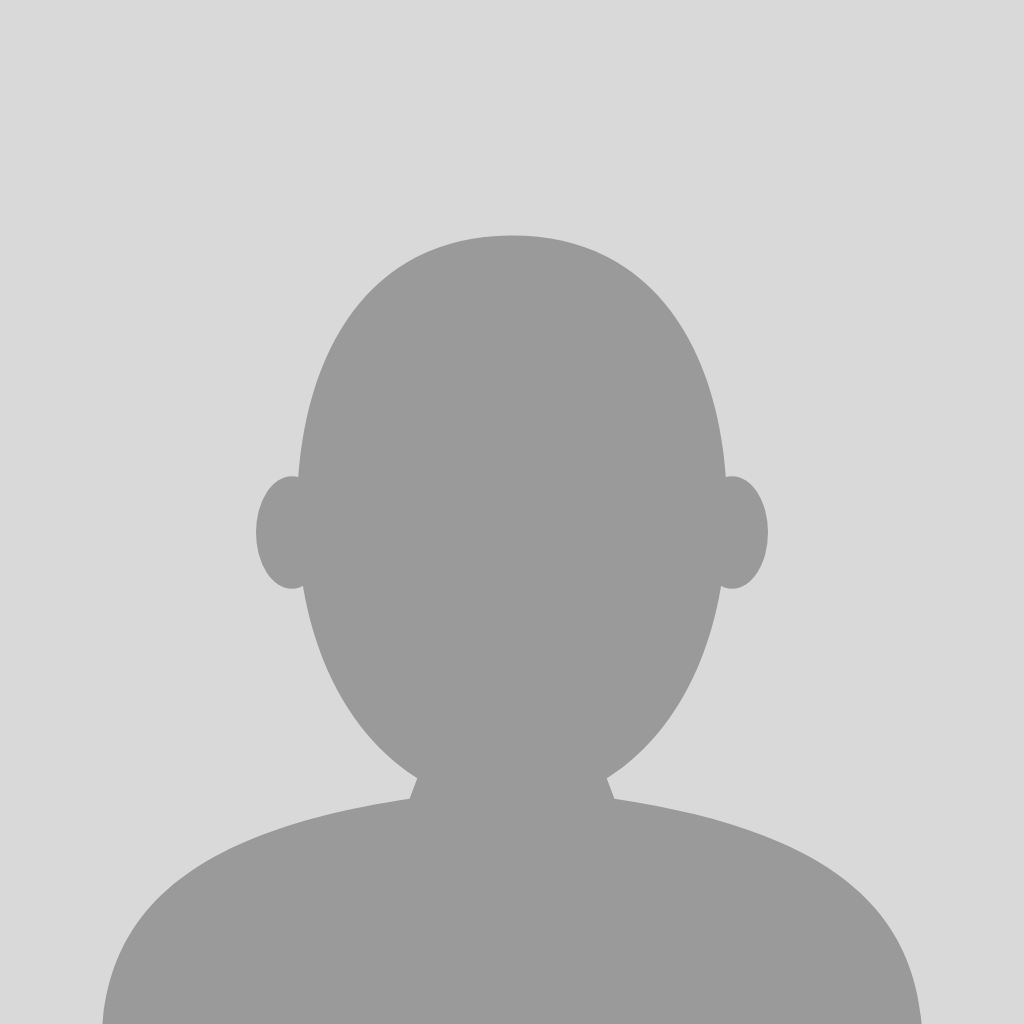
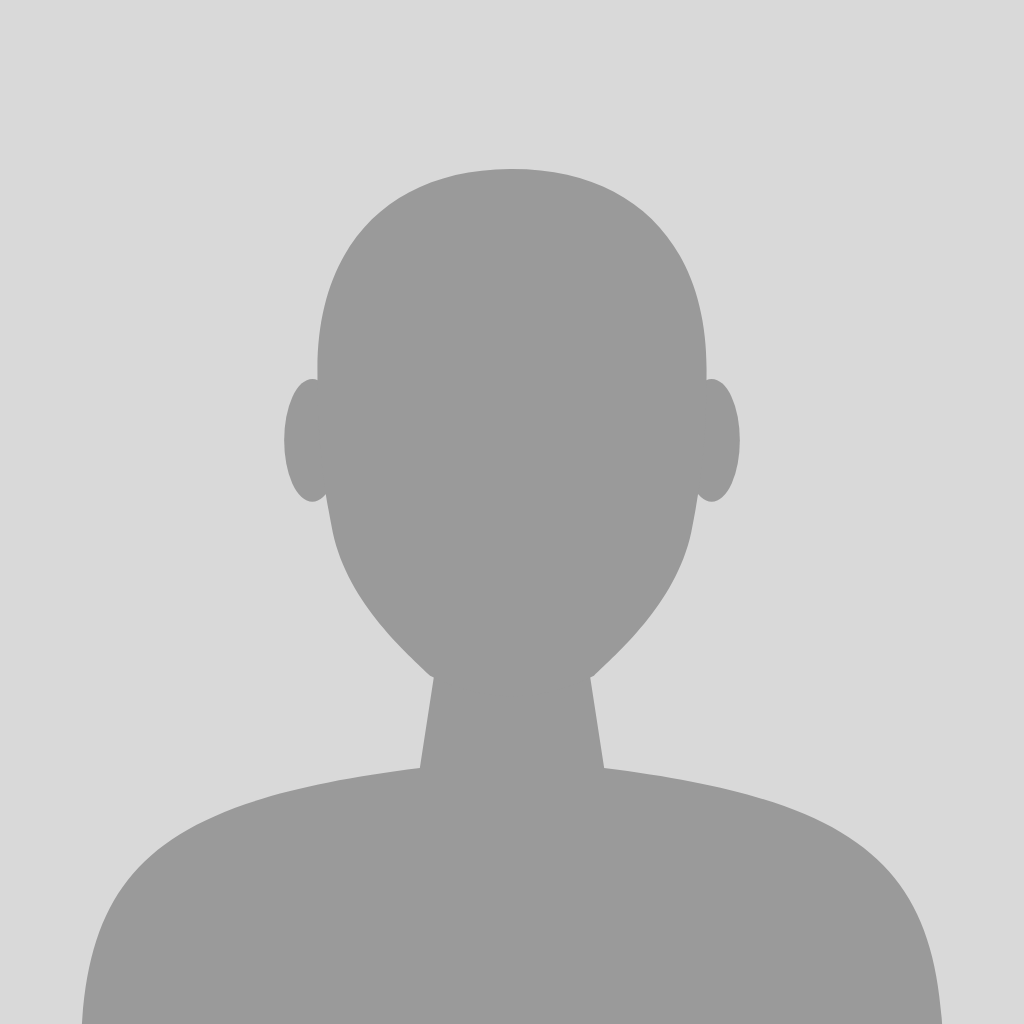
Art brief: realistic face pieces (whole heads + grey hair/facial hair/accessories), new templates
Claude-Session: https://claude.ai/code/session_01JA2Thjmgdi6wzyYQC96WuJ

Changed region(s): [[0.5625, 0.3438, 0.9375, 1.0], [0.0625, 0.3438, 0.4375, 1.0], [0.3125, 0.1562, 0.6875, 0.3438]]

diff --git a/scripts/art-brief.ts b/scripts/art-brief.ts
@@ -5,7 +5,7 @@ import { writeFileSync, readFileSync } from 'fs';
 import { CARD_LIST } from '../src/career/cards';
 import { TRINKETS, UPGRADES, MILESTONES } from '../src/career/legacy';
 import { EQUIPMENT, SPECIALS, FOCUSES, SLOT_ACTIVITIES, PACKS, STAFF } from '../src/career/data';
-import { HAIR_STYLES_M, HAIR_STYLES_F, ACCESSORIES } from '../src/career/faces';
+import { HAIR_STYLES_M, HAIR_STYLES_F } from '../src/career/faces';
 
 const STYLE = 'premium sports-videogame UI illustration, bold clean shapes, soft studio rim light, deep navy (#0b1f4a) to royal blue (#1d58b8) palette with orange (#ff7a3d) and teal (#3ee0cf) accents, crisp edges, no text, no logos, no watermark';
 const ICON = `single centered object, 3/4 view, ${STYLE}, transparent background, generous padding`;
@@ -45,22 +45,20 @@ const staff = table([['File', 'Staff', 'Prompt'], ...Object.entries(STAFF).map((
 const milestones = table([['File', 'Milestone', 'Prompt'], ...MILESTONES.map((m) => [`milestones/${m.id}.webp`, m.label, `medal or trophy icon for "${m.label}", ${ICON}`])]);
 const DECISIONS: [string, string][] = [['academy', 'a sunny clay-court academy in Spain with young players'], ['extra', 'a lone player practising at dusk under court lights'], ['sponsor', 'a photo shoot set with lights and a racquet on a stool'], ['press', 'a press conference table with microphones'], ['party', 'a rooftop party with city lights'], ['niggle', 'a shoulder with a glowing red pain spot and an ice pack'], ['hitting', 'a star player and a young hitting partner on a practice court'], ['federation', 'a national training centre entrance with flags'], ['coach-offer', 'a coach with a clipboard offering a handshake'], ['viral', 'a phone screen exploding with likes around a tweener shot'], ['exhibition', 'a glamorous desert exhibition stadium at night'], ['turn-pro', 'a junior trophy on one side and a pro tour locker on the other'], ['retire', 'an empty stadium at sunset with a racquet left on the baseline']];
 const decisions = table([['File', 'Decision', 'Prompt'], ...DECISIONS.map(([id, d]) => [`decisions/${id}.webp`, id, `${d}, cinematic, ${STYLE}, wide 16:9`])]);
-const faces = [
-  table([['Layer', 'Variants (file names)', 'Tinted?', 'Notes'],
-    ['head', '0 oval · 1 round · 2 long · 3 square · 4 heart', 'skin', 'face shape incl. jaw shading and cheeks, no features'],
-    ['ears', 'base', 'skin', 'both ears, at x 50–66 and 134–150, y 92–116'],
-    ['neck', 'base', 'skin', 'x 86–114, y 136–162'],
-    ['eyes', '0 round · 1 almond · 2 narrow · 3 wide · 4 soft', 'no (whites + iris in colour)', 'centres at (83,102) and (117,102)'],
-    ['brows', '0–4 (straight, arched, angled down, thick, raised)', 'hair', 'y ≈ 84–92'],
-    ['nose', '0–4 (small, straight, wide, button, long)', 'skin', 'tip at y ≈ 118'],
-    ['mouth', '0–4 (smile, neutral, open grin, small, smirk)', 'no', 'centred at (100,134)'],
-    ['facialHair', '1 stubble · 2 beard · 3 moustache · 4 goatee', 'hair', 'ATP only'],
-    ['hairBack', HAIR_STYLES_F.concat(['long']).filter((v, i, a) => a.indexOf(v) === i).join(' · '), 'hair', 'drawn behind the head (ponytails, long hair, braids)'],
-    ['hairFront', [...new Set([...HAIR_STYLES_M, ...HAIR_STYLES_F])].join(' · '), 'hair', 'on top of the head, hairline above y ≈ 70'],
-    ['shirt', 'base', 'no (tinted to country kit in code)', 'collar at y ≈ 154'],
-    ['accessory', ACCESSORIES.filter((a) => a !== 'none').filter((v, i, a) => a.indexOf(v) === i).join(' · '), 'no (kit colour in code)', 'headband across y ≈ 78–90; cap brim to x 160'],
-  ]),
-].join('\n');
+const HAIR_DESC: Record<string, string> = {
+  buzz: 'very short buzz cut, even length all over', crop: 'short textured crop, slightly messy fringe', sidepart: 'classic short side part, neatly combed',
+  quiff: 'short sides with a swept-up quiff on top', curly: 'short tight curls on top, shorter sides', afro: 'full rounded afro',
+  messy: 'medium-length tousled messy hair', receding: 'short hair with a receding hairline at the temples', bald: '(no file: the bald head is used)',
+  long: 'shoulder-length straight hair tucked behind the ears', manbun: 'hair pulled back into a small bun at the back of the head',
+  ponytail: 'hair pulled back into a sporty mid ponytail, a few loose strands at the temples', bun: 'hair pulled up into a neat top bun',
+  bob: 'chin-length bob with a light fringe', braids: 'two long box braids hanging in front of the shoulders', pixie: 'short pixie cut with a side-swept fringe',
+  highpony: 'high ponytail on the crown, sleek sides',
+};
+const BACK = new Set(['long', 'ponytail', 'highpony', 'bob', 'braids', 'afro', 'manbun', 'bun']);
+const faces = table([['Style', 'Used by', 'Files', 'Prompt for [hairstyle]'],
+  ...[...new Set([...HAIR_STYLES_M, ...HAIR_STYLES_F])].map((h) => [h, [HAIR_STYLES_M.includes(h) ? 'ATP' : '', HAIR_STYLES_F.includes(h) ? 'WTA' : ''].filter(Boolean).join(' · '),
+    h === 'bald' ? '—' : `hairFront/${h}.png${BACK.has(h) ? ` + hairBack/${h}.png` : ''}`, HAIR_DESC[h] ?? h]),
+]);
 
 const md = hand
   .replace('{{FACE_LAYERS}}', faces)

diff --git a/docs/ART_BRIEF.md b/docs/ART_BRIEF.md
@@ -24,59 +24,103 @@ This file is generated by `npx tsx scripts/art-brief.ts` from `docs/art-brief.he
 
   > premium sports-videogame UI illustration, bold clean shapes, soft studio rim light, deep navy (#0b1f4a) to royal blue (#1d58b8) palette with orange (#ff7a3d) and teal (#3ee0cf) accents, crisp edges, no text, no logos, no watermark
 
-## 2. Faces (procedural, part-based)
+## 2. Faces (realistic, assembled from pieces)
 
-Faces are assembled in code from layers in a 200 × 200 unit box (export art at **1024 × 1024 px**, so 1 unit
-= 5.12 px). Order, back to front:
+Faces are semi-realistic painted portraits assembled in the game from a few large pieces. Realistic eyes, noses and
+mouths taken from different heads never match in lighting and skin, so **each head is one complete face** and the
+variety comes from combining heads with hair, facial hair, accessories and kit colours. 30 heads × 20 hair styles ×
+10 hair colours × 5 facial-hair options × 5 accessories gives tens of thousands of distinct players.
 
-`background · hairBack · shirt · neck · ears · head · eyes · brows · nose · mouth · facialHair · hairFront · accessory`
+### 2.1 Framing (identical for every piece)
 
-- Templates in `docs/art-templates/` (made by `node scripts/face-templates.cjs`) are **placement guides only, not
-  a style reference**: `face-template-atp.png` / `face-template-wta.png` are plain grey mannequin silhouettes
-  (head, ears, neck, shoulders) and `face-layer-guide.png` marks the skull top, hairline, brows, eye line, nose
-  tip, mouth and chin. Don't feed them to a generator as a style image.
-- **Style anchor first:** generate one complete face in the look you want, e.g. *front-facing head-and-shoulders
-  portrait of a young professional tennis player, stylized semi-realistic sports videogame art, soft studio rim
-  light, neutral grey background, centred, looking at camera*. Scale it so it matches the mannequin's outline,
-  then inpaint hair and facial hair away to get your base head. Build every part on that base.
-- **Tinted layers** (skin and hair) must be painted in **neutral grey**, with `#808080` as the base tone and
-  shading lighter or darker around it. The game multiplies them by 10 skin tones and 10 hair colours, so one
-  sheet covers everyone. Eyes, mouth, shirt and accessories are painted in full colour (shirt and accessory are
-  re-coloured to the country kit in code, so paint them neutral grey too).
-- Each file is a full 1024 × 1024 transparent PNG with the part in its final position (no cropping), named
-  `public/art/faces/<layer>/<variant>.png`, and listed in `public/art/faces/manifest.json`, e.g.
-  `{ "head": ["0","1","2","3","4"], "hairFront": ["crop","ponytail"] }`.
-- **How to generate parts that line up:** inpaint on your base head (from the style anchor), checking it against
-  the guide. For hair: mask only the hair area and prompt the hairstyle; then cut the hair out to its own
-  transparent PNG. For eyes, nose and mouth, mask that region only. Keep the same seed and model for a whole
-  layer so the set looks consistent.
-- **Generic face-part prompt:**
-  > front-facing stylized athlete bust, *[part description]*, neutral grey material (#808080) with soft
-  > shading, same camera, framing and lighting as the base head, clean edges,
-  > transparent background, premium sports-videogame UI illustration, bold clean shapes, soft studio rim light, deep navy (#0b1f4a) to royal blue (#1d58b8) palette with orange (#ff7a3d) and teal (#3ee0cf) accents, crisp edges, no text, no logos, no watermark
+- Canvas **1024 × 1024 px**, transparent PNG, front-facing head and shoulders, camera at eye height, 85 mm portrait look.
+- Head centred on x = 512. **Eye line at y = 400**, pupils at x ≈ 437 and 587 (150 px apart), **chin at y ≈ 700**,
+  top of skull ≈ 170, shoulders reach the bottom corners. Templates in `docs/art-templates/` show the outline.
+- Lighting: soft studio key light from the upper left, gentle rim light on the right, no hard cast shadows.
+- Expression: calm and focused, mouth closed, looking into the camera.
 
-| Layer | Variants (file names) | Tinted? | Notes |
+### 2.2 Style anchor (make this first, then reuse its seed and settings)
+
+> semi-realistic digital painting of a young professional tennis player, front-facing head-and-shoulders portrait,
+> looking straight at the camera, calm focused expression, mouth closed, soft studio key light from upper left, subtle
+> rim light, painterly but realistic skin with pores softened, clean edges, plain mid-grey background, modern
+> sports videogame player card art, high detail, centred, symmetrical framing
+
+**Negative prompt:** cartoon, chibi, anime, big eyes, caricature, 3D render, plastic skin, photo, text, logo, watermark,
+jewellery, tilted head, smiling with teeth, hands, harsh shadows, real person likeness
+
+Approve one anchor and keep it as the reference image (image prompt or style reference) for every piece below.
+
+### 2.3 Heads (`faces/head/<tour>-<tone>-<n>.png`, full colour)
+
+A head is the complete face, ears and neck with **no hair** (a smooth bald scalp with a hint of shaved stubble) and
+eyebrows included. Paint a plain mid-grey crew-neck shirt; the game recolours it to the kit. Make 3 per skin tone
+and tour (30 in total; one per tone and tour, 10 in total, is enough to start). Tone groups match the game's 10 skin tones in pairs:
+`1` very fair · `2` fair · `3` olive / light brown · `4` brown · `5` deep brown.
+
+> [style anchor prompt], **[man | woman]** aged about **[18 | 23 | 28]**, **[tone description]** skin,
+> **[face shape: oval | square jaw | long narrow | round | high cheekbones and pointed chin]**, **[eye shape and
+> colour]**, **[nose: straight | broad | small upturned | aquiline]**, completely bald smooth head with no hair,
+> natural eyebrows, plain grey crew-neck t-shirt, same framing, lighting and camera as the reference
+
+Vary ethnicity naturally within each tone (e.g. tone 3 covers Mediterranean, Latin American, South Asian and East
+Asian faces). Keep the eye line and chin on the template lines; check by overlaying the template at 50% opacity.
+
+**Optional extras per head:** `<head>-happy.png` (relaxed smile, for wins) and `<head>-tired.png` (sweaty, frowning,
+for losses), made by inpainting only the mouth and brows on the same head.
+
+### 2.4 Hair (`faces/hairFront/<style>.png`, `faces/hairBack/<style>.png`, neutral grey)
+
+Generate hair **on the approved bald anchor head** by inpainting the hair area only, then cut it out to a transparent
+PNG (background removal plus a hand-cleaned edge, keep fine flyaway strands). Paint it in **neutral grey**: base tone
+`#808080`, highlights up to `#e0e0e0`, shadows down to `#202020`. The game multiplies it by 10 hair colours, so one
+file covers everyone. Hair that falls behind the shoulders or neck (ponytails, long hair) goes in a separate
+`hairBack` file drawn behind the head. Cover the scalp generously past the hairline so it fits all 30 heads.
+
+> [style anchor prompt], **[hairstyle]**, hair rendered in neutral grey tones only, realistic strands and volume,
+> same head, framing and lighting as the reference, transparent background
+
+| Style | Used by | Files | Prompt for [hairstyle] |
 |---|---|---|---|
-| head | 0 oval · 1 round · 2 long · 3 square · 4 heart | skin | face shape incl. jaw shading and cheeks, no features |
-| ears | base | skin | both ears, at x 50–66 and 134–150, y 92–116 |
-| neck | base | skin | x 86–114, y 136–162 |
-| eyes | 0 round · 1 almond · 2 narrow · 3 wide · 4 soft | no (whites + iris in colour) | centres at (83,102) and (117,102) |
-| brows | 0–4 (straight, arched, angled down, thick, raised) | hair | y ≈ 84–92 |
-| nose | 0–4 (small, straight, wide, button, long) | skin | tip at y ≈ 118 |
-| mouth | 0–4 (smile, neutral, open grin, small, smirk) | no | centred at (100,134) |
-| facialHair | 1 stubble · 2 beard · 3 moustache · 4 goatee | hair | ATP only |
-| hairBack | ponytail · bun · long · bob · braids · curly · afro · pixie · highpony | hair | drawn behind the head (ponytails, long hair, braids) |
-| hairFront | buzz · crop · sidepart · quiff · curly · afro · messy · receding · bald · long · manbun · ponytail · bun · bob · braids · pixie · highpony | hair | on top of the head, hairline above y ≈ 70 |
-| shirt | base | no (tinted to country kit in code) | collar at y ≈ 154 |
-| accessory | headband · cap · visor · bandana | no (kit colour in code) | headband across y ≈ 78–90; cap brim to x 160 |
+| buzz | ATP | hairFront/buzz.png | very short buzz cut, even length all over |
+| crop | ATP | hairFront/crop.png | short textured crop, slightly messy fringe |
+| sidepart | ATP | hairFront/sidepart.png | classic short side part, neatly combed |
+| quiff | ATP | hairFront/quiff.png | short sides with a swept-up quiff on top |
+| curly | ATP · WTA | hairFront/curly.png | short tight curls on top, shorter sides |
+| afro | ATP · WTA | hairFront/afro.png + hairBack/afro.png | full rounded afro |
+| messy | ATP | hairFront/messy.png | medium-length tousled messy hair |
+| receding | ATP | hairFront/receding.png | short hair with a receding hairline at the temples |
+| bald | ATP | — | (no file: the bald head is used) |
+| long | ATP · WTA | hairFront/long.png + hairBack/long.png | shoulder-length straight hair tucked behind the ears |
+| manbun | ATP | hairFront/manbun.png + hairBack/manbun.png | hair pulled back into a small bun at the back of the head |
+| ponytail | WTA | hairFront/ponytail.png + hairBack/ponytail.png | hair pulled back into a sporty mid ponytail, a few loose strands at the temples |
+| bun | WTA | hairFront/bun.png + hairBack/bun.png | hair pulled up into a neat top bun |
+| bob | WTA | hairFront/bob.png + hairBack/bob.png | chin-length bob with a light fringe |
+| braids | WTA | hairFront/braids.png + hairBack/braids.png | two long box braids hanging in front of the shoulders |
+| pixie | WTA | hairFront/pixie.png | short pixie cut with a side-swept fringe |
+| highpony | WTA | hairFront/highpony.png + hairBack/highpony.png | high ponytail on the crown, sleek sides |
 
-Engineering note: the vector faces render as SVG images today. Once PNG parts exist, the renderer switches to a
-small canvas compositor (an image inside an SVG used as `<img>` cannot load external files); that change is
-about 50 lines in `src/career/faces.ts`.
+### 2.5 Facial hair, accessories and kit
 
-**Animation:** faces get a subtle idle (0.5° head bob, blink every 4–7 s by swapping the eyes layer for
-an `eyes/<n>-closed.png` frame) on the match intro and month review; a happy and a frustrated mouth variant
-(`mouth/happy.png`, `mouth/angry.png`) are used on Victory and Defeat.
+- **Facial hair** (`faces/facialHair/<n>.png`, neutral grey like hair, ATP only): `1` light stubble (semi-transparent),
+  `2` short full beard, `3` moustache, `4` goatee. Inpaint on the anchor head, then cut out.
+- **Accessories** (`faces/accessory/<name>.png`, neutral light grey, re-coloured to the kit): `headband` (terry
+  sweatband across the forehead), `cap` (sport cap, brim forward, sits above the eyebrows), `visor`, `bandana` (tied
+  at the back). For the cap, hairFront is hidden; supply `faces/hairFront/<style>-cap.png` if the hair should show
+  under it.
+- **Kit** (`faces/shirt/polo.png`, neutral grey): a tennis polo with collar and placket to replace the crew neck.
+
+### 2.6 How the game assembles them
+
+Back to front: `background · hairBack · head (incl. shirt) · facialHair · hairFront · accessory`. The game picks a head
+from the player's tour and skin tone, then hair, facial hair and accessory from their genes, tints the grey pieces and
+draws them on a canvas (a small compositor in `src/career/faces.ts`, about 50 lines, to be added when the first
+pieces arrive). Pieces are listed in `public/art/faces/manifest.json`, e.g.
+`{ "head": ["atp-3-1", "wta-2-1"], "hairFront": ["crop", "ponytail"], "hairBack": ["ponytail"] }`. Until a piece
+exists, the drawn vector face is used, so art can arrive in any order.
+
+**Animation:** a subtle idle (0.5° head bob, slow breathing scale) on the match intro and month review; the `-happy`
+and `-tired` heads are swapped in on Victory and Defeat.
 
 ## 3. Cards
 

diff --git a/docs/art-brief.head.md b/docs/art-brief.head.md
@@ -24,46 +24,85 @@ This file is generated by `npx tsx scripts/art-brief.ts` from `docs/art-brief.he
 
   > {{STYLE}}
 
-## 2. Faces (procedural, part-based)
+## 2. Faces (realistic, assembled from pieces)
 
-Faces are assembled in code from layers in a 200 × 200 unit box (export art at **1024 × 1024 px**, so 1 unit
-= 5.12 px). Order, back to front:
+Faces are semi-realistic painted portraits assembled in the game from a few large pieces. Realistic eyes, noses and
+mouths taken from different heads never match in lighting and skin, so **each head is one complete face** and the
+variety comes from combining heads with hair, facial hair, accessories and kit colours. 30 heads × 20 hair styles ×
+10 hair colours × 5 facial-hair options × 5 accessories gives tens of thousands of distinct players.
 
-`background · hairBack · shirt · neck · ears · head · eyes · brows · nose · mouth · facialHair · hairFront · accessory`
+### 2.1 Framing (identical for every piece)
 
-- Templates in `docs/art-templates/` (made by `node scripts/face-templates.cjs`) are **placement guides only, not
-  a style reference**: `face-template-atp.png` / `face-template-wta.png` are plain grey mannequin silhouettes
-  (head, ears, neck, shoulders) and `face-layer-guide.png` marks the skull top, hairline, brows, eye line, nose
-  tip, mouth and chin. Don't feed them to a generator as a style image.
-- **Style anchor first:** generate one complete face in the look you want, e.g. *front-facing head-and-shoulders
-  portrait of a young professional tennis player, stylized semi-realistic sports videogame art, soft studio rim
-  light, neutral grey background, centred, looking at camera*. Scale it so it matches the mannequin's outline,
-  then inpaint hair and facial hair away to get your base head. Build every part on that base.
-- **Tinted layers** (skin and hair) must be painted in **neutral grey**, with `#808080` as the base tone and
-  shading lighter or darker around it. The game multiplies them by 10 skin tones and 10 hair colours, so one
-  sheet covers everyone. Eyes, mouth, shirt and accessories are painted in full colour (shirt and accessory are
-  re-coloured to the country kit in code, so paint them neutral grey too).
-- Each file is a full 1024 × 1024 transparent PNG with the part in its final position (no cropping), named
-  `public/art/faces/<layer>/<variant>.png`, and listed in `public/art/faces/manifest.json`, e.g.
-  `{ "head": ["0","1","2","3","4"], "hairFront": ["crop","ponytail"] }`.
-- **How to generate parts that line up:** inpaint on your base head (from the style anchor), checking it against
-  the guide. For hair: mask only the hair area and prompt the hairstyle; then cut the hair out to its own
-  transparent PNG. For eyes, nose and mouth, mask that region only. Keep the same seed and model for a whole
-  layer so the set looks consistent.
-- **Generic face-part prompt:**
-  > front-facing stylized athlete bust, *[part description]*, neutral grey material (#808080) with soft
-  > shading, same camera, framing and lighting as the base head, clean edges,
-  > transparent background, {{STYLE}}
+- Canvas **1024 × 1024 px**, transparent PNG, front-facing head and shoulders, camera at eye height, 85 mm portrait look.
+- Head centred on x = 512. **Eye line at y = 400**, pupils at x ≈ 437 and 587 (150 px apart), **chin at y ≈ 700**,
+  top of skull ≈ 170, shoulders reach the bottom corners. Templates in `docs/art-templates/` show the outline.
+- Lighting: soft studio key light from the upper left, gentle rim light on the right, no hard cast shadows.
+- Expression: calm and focused, mouth closed, looking into the camera.
+
+### 2.2 Style anchor (make this first, then reuse its seed and settings)
+
+> semi-realistic digital painting of a young professional tennis player, front-facing head-and-shoulders portrait,
+> looking straight at the camera, calm focused expression, mouth closed, soft studio key light from upper left, subtle
+> rim light, painterly but realistic skin with pores softened, clean edges, plain mid-grey background, modern
+> sports videogame player card art, high detail, centred, symmetrical framing
+
+**Negative prompt:** cartoon, chibi, anime, big eyes, caricature, 3D render, plastic skin, photo, text, logo, watermark,
+jewellery, tilted head, smiling with teeth, hands, harsh shadows, real person likeness
+
+Approve one anchor and keep it as the reference image (image prompt or style reference) for every piece below.
+
+### 2.3 Heads (`faces/head/<tour>-<tone>-<n>.png`, full colour)
+
+A head is the complete face, ears and neck with **no hair** (a smooth bald scalp with a hint of shaved stubble) and
+eyebrows included. Paint a plain mid-grey crew-neck shirt; the game recolours it to the kit. Make 3 per skin tone
+and tour (30 in total; one per tone and tour, 10 in total, is enough to start). Tone groups match the game's 10 skin tones in pairs:
+`1` very fair · `2` fair · `3` olive / light brown · `4` brown · `5` deep brown.
+
+> [style anchor prompt], **[man | woman]** aged about **[18 | 23 | 28]**, **[tone description]** skin,
+> **[face shape: oval | square jaw | long narrow | round | high cheekbones and pointed chin]**, **[eye shape and
+> colour]**, **[nose: straight | broad | small upturned | aquiline]**, completely bald smooth head with no hair,
+> natural eyebrows, plain grey crew-neck t-shirt, same framing, lighting and camera as the reference
+
+Vary ethnicity naturally within each tone (e.g. tone 3 covers Mediterranean, Latin American, South Asian and East
+Asian faces). Keep the eye line and chin on the template lines; check by overlaying the template at 50% opacity.
+
+**Optional extras per head:** `<head>-happy.png` (relaxed smile, for wins) and `<head>-tired.png` (sweaty, frowning,
+for losses), made by inpainting only the mouth and brows on the same head.
+
+### 2.4 Hair (`faces/hairFront/<style>.png`, `faces/hairBack/<style>.png`, neutral grey)
+
+Generate hair **on the approved bald anchor head** by inpainting the hair area only, then cut it out to a transparent
+PNG (background removal plus a hand-cleaned edge, keep fine flyaway strands). Paint it in **neutral grey**: base tone
+`#808080`, highlights up to `#e0e0e0`, shadows down to `#202020`. The game multiplies it by 10 hair colours, so one
+file covers everyone. Hair that falls behind the shoulders or neck (ponytails, long hair) goes in a separate
+`hairBack` file drawn behind the head. Cover the scalp generously past the hairline so it fits all 30 heads.
+
+> [style anchor prompt], **[hairstyle]**, hair rendered in neutral grey tones only, realistic strands and volume,
+> same head, framing and lighting as the reference, transparent background
 
 {{FACE_LAYERS}}
 
-Engineering note: the vector faces render as SVG images today. Once PNG parts exist, the renderer switches to a
-small canvas compositor (an image inside an SVG used as `<img>` cannot load external files); that change is
-about 50 lines in `src/career/faces.ts`.
+### 2.5 Facial hair, accessories and kit
 
-**Animation:** faces get a subtle idle (0.5° head bob, blink every 4–7 s by swapping the eyes layer for
-an `eyes/<n>-closed.png` frame) on the match intro and month review; a happy and a frustrated mouth variant
-(`mouth/happy.png`, `mouth/angry.png`) are used on Victory and Defeat.
+- **Facial hair** (`faces/facialHair/<n>.png`, neutral grey like hair, ATP only): `1` light stubble (semi-transparent),
+  `2` short full beard, `3` moustache, `4` goatee. Inpaint on the anchor head, then cut out.
+- **Accessories** (`faces/accessory/<name>.png`, neutral light grey, re-coloured to the kit): `headband` (terry
+  sweatband across the forehead), `cap` (sport cap, brim forward, sits above the eyebrows), `visor`, `bandana` (tied
+  at the back). For the cap, hairFront is hidden; supply `faces/hairFront/<style>-cap.png` if the hair should show
+  under it.
+- **Kit** (`faces/shirt/polo.png`, neutral grey): a tennis polo with collar and placket to replace the crew neck.
+
+### 2.6 How the game assembles them
+
+Back to front: `background · hairBack · head (incl. shirt) · facialHair · hairFront · accessory`. The game picks a head
+from the player's tour and skin tone, then hair, facial hair and accessory from their genes, tints the grey pieces and
+draws them on a canvas (a small compositor in `src/career/faces.ts`, about 50 lines, to be added when the first
+pieces arrive). Pieces are listed in `public/art/faces/manifest.json`, e.g.
+`{ "head": ["atp-3-1", "wta-2-1"], "hairFront": ["crop", "ponytail"], "hairBack": ["ponytail"] }`. Until a piece
+exists, the drawn vector face is used, so art can arrive in any order.
+
+**Animation:** a subtle idle (0.5° head bob, slow breathing scale) on the match intro and month review; the `-happy`
+and `-tired` heads are swapped in on Victory and Defeat.
 
 ## 3. Cards
 
